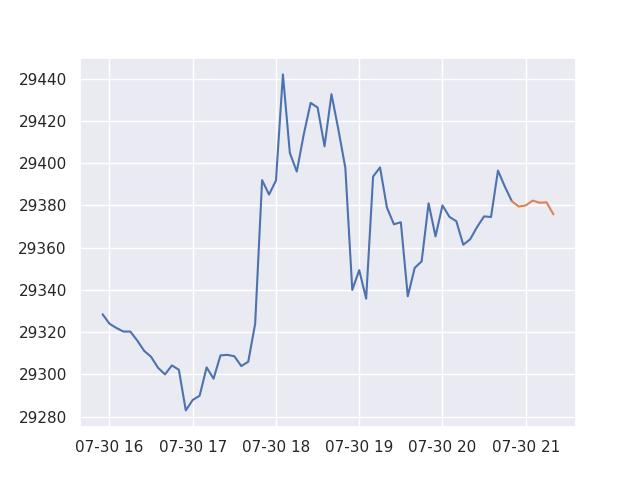
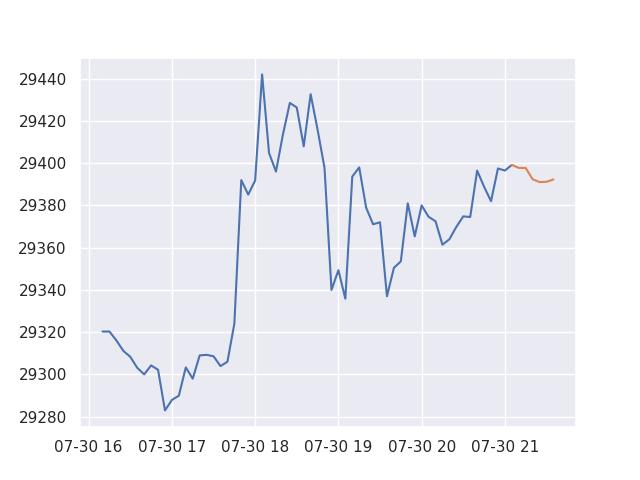
visualize fixed

Changed region(s): [[0.375, 0.1562, 0.875, 0.625], [0.1562, 0.4688, 0.4062, 0.875], [0.0938, 0.9062, 0.875, 0.9688]]

diff --git a/handlers/handlers.py b/handlers/handlers.py
@@ -12,6 +12,7 @@ import warnings
 import seaborn as sns
 from create_bot import bot
 from aiogram.types import FSInputFile
+from matplotlib.pyplot import clf
 
 warnings.filterwarnings('ignore')
 
@@ -45,8 +46,14 @@ async def show_prices_text_old(current,msg:Message, count,hour=0.5):
         _lags[str((now+delta).time())] = predicted_value
         lags=pd.Series(_lags)
         sns.lineplot(x = pd.to_datetime(lags.iloc[:-1].index), y = lags.iloc[:-1],color="blue")
+        try:
+            sns.lineplot(y.iloc[-6-count*6:-6])
+            plot_2 = sns.lineplot(y.iloc[-7:])
+        except NameError:
+            pass
         plot_2 = sns.lineplot(x = pd.to_datetime(lags.iloc[-2:].index), y = lags.iloc[-2:], color='red')
         plot_2.figure.savefig('fig_old.jpg')
+        clf()
 
 async def show_prices(y,msg: Message, count):
     sns.set()
@@ -58,6 +65,7 @@ async def show_prices(y,msg: Message, count):
     sns.lineplot(y.iloc[-6-count:-6])
     plot_2 = sns.lineplot(y.iloc[-7:])
     plot_2.figure.savefig('fig.jpg')
+    clf()
 
 
 
